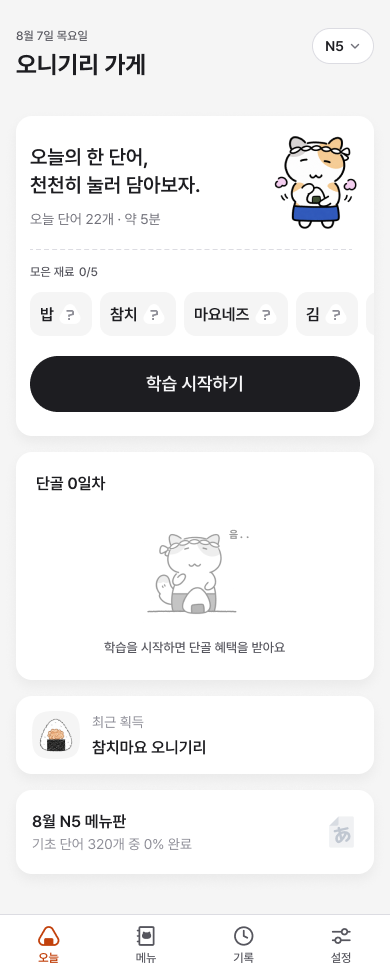
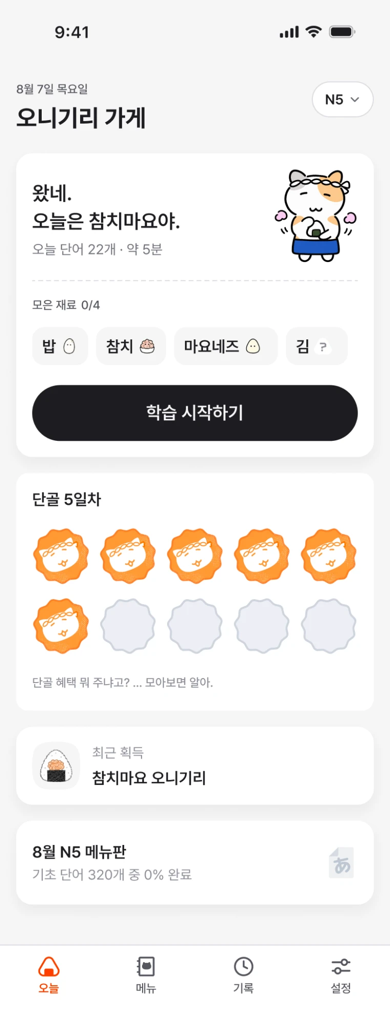
handoff: 16px 핵심 5장(01·02·03·05·08) 추가, fixture 데이터 차이 정리

diff --git a/handoff/redesign-2026-08/final-screens-16px/README.md b/handoff/redesign-2026-08/final-screens-16px/README.md
@@ -1,11 +1,20 @@
-# final-screens-16px (2026-11-11)
+# final-screens-16px (2026-11-11, 2026-11-12 갱신)
 
 Figma에서 좌우 여백 16px 기준으로 다시 내보낸 화면. 옛 `final-screens/`(20px, Onikan `fa259e7`)를 대체해 갈 예정.
+앱 캡처 비교(visual regression)는 아래 핵심 5장만 쓰기로 했다(2026-11-12). 나머지 15장은 다시 내보내지 않는다.
 
-| 파일 | 대응하는 옛 화면 / 앱 캡처 fixture | 기준 이미지로 바로 쓸 수 있나 |
-|---|---|---|
-| `01-home-study-before.png` (390×979) | `01-home-study-before` | 아직 아님 — 그림은 단골 0일차·재료 0/5·단어 22개, fixture는 단골 5일차·재료 2/5·단어 20개. 상태바 없음 |
-| `03-study-reveal.png` (390×844) | `03-study-reveal` | 아직 아님 — 그림은 過剰, fixture는 勉強. '발음이 유사한 단어' 박스 없음. 버튼 문구 '다시 볼래요 / 한 번 익혔어요' |
-| `first-pass-result.png` (390×844) | 없음 (첫 확인 결과 화면, 12/12) | fixture 새로 필요 |
+모두 폭 390px(1x)로 맞춰 저장했다. 01·08은 전달받은 이미지가 축소본이라 390폭으로 다시 키웠다 — 글자 가장자리가 약간 흐릴 수 있다.
 
-남은 화면(02, 04–20)은 아직 16px로 다시 내보내지 않았다.
+| 파일 | 크기 | 대응 fixture | 그림 데이터 vs fixture 데이터 |
+|---|---|---|---|
+| `01-home-study-before.png` | 390×1025 | `01-home-study-before` | 그림: 재료 0/4(밥·참치·마요네즈·김), 오늘 단어 22개·약 5분, 메뉴판 0%, 최근 획득 카드 있음 / fixture: 재료 2/5, 20개·약 6분, 메뉴판 60% |
+| `02-study-front.png` | 390×844 | `02-study-front` | 그림: 過剰 かじょう / fixture: 勉強 べんきょう |
+| `03-study-reveal.png` | 390×844 | `03-study-reveal` | 그림: 過剰 · 과잉, 과다 (예문은 勉強 문장) / fixture: 勉強 · 공부, 학습 |
+| `05-study-result.png` | 390×844 | `05-study-result` | 그림: 새 재료 김 4/4, '아직이라고 표시한 단어 3', 상태바 '5G · 92%', 확인 버튼이 채워지는 중간 프레임 / fixture: 참치마요 4/4 |
+| `08-home-review-done.png` | 390×1138 | `08-home-review-done` | 그림: 오늘 학습 완료·단어 20개, 참치마요 주먹밥 1/4, 이어서 회독(챕터 1 · 0/51), 메뉴판 0% / fixture: 복습까지 마친 상태 |
+| `first-pass-result.png` | 390×844 | 없음 | 첫 확인 결과 화면(12/12). fixture 새로 필요 |
+
+## 기준 이미지로 쓸 때 주의
+- 그림 데이터가 fixture와 달라 그대로 비교하면 글자·숫자 부분이 전부 차이로 잡힌다. 쓰려면 fixture를 그림에 맞추거나, 그림을 fixture에 맞춰 다시 내보내야 한다.
+- 01·08은 홈 긴 화면이라 비교 도구가 위 756px + 아래 탭바 88px만 잘라 쓴다.
+- `ui/manifest.json`의 designRoot가 다른 컴퓨터 경로(`/Users/tyoung/...`)라 이 컴퓨터에서 `ui:approve --from-design`은 그대로 돌지 않는다.
